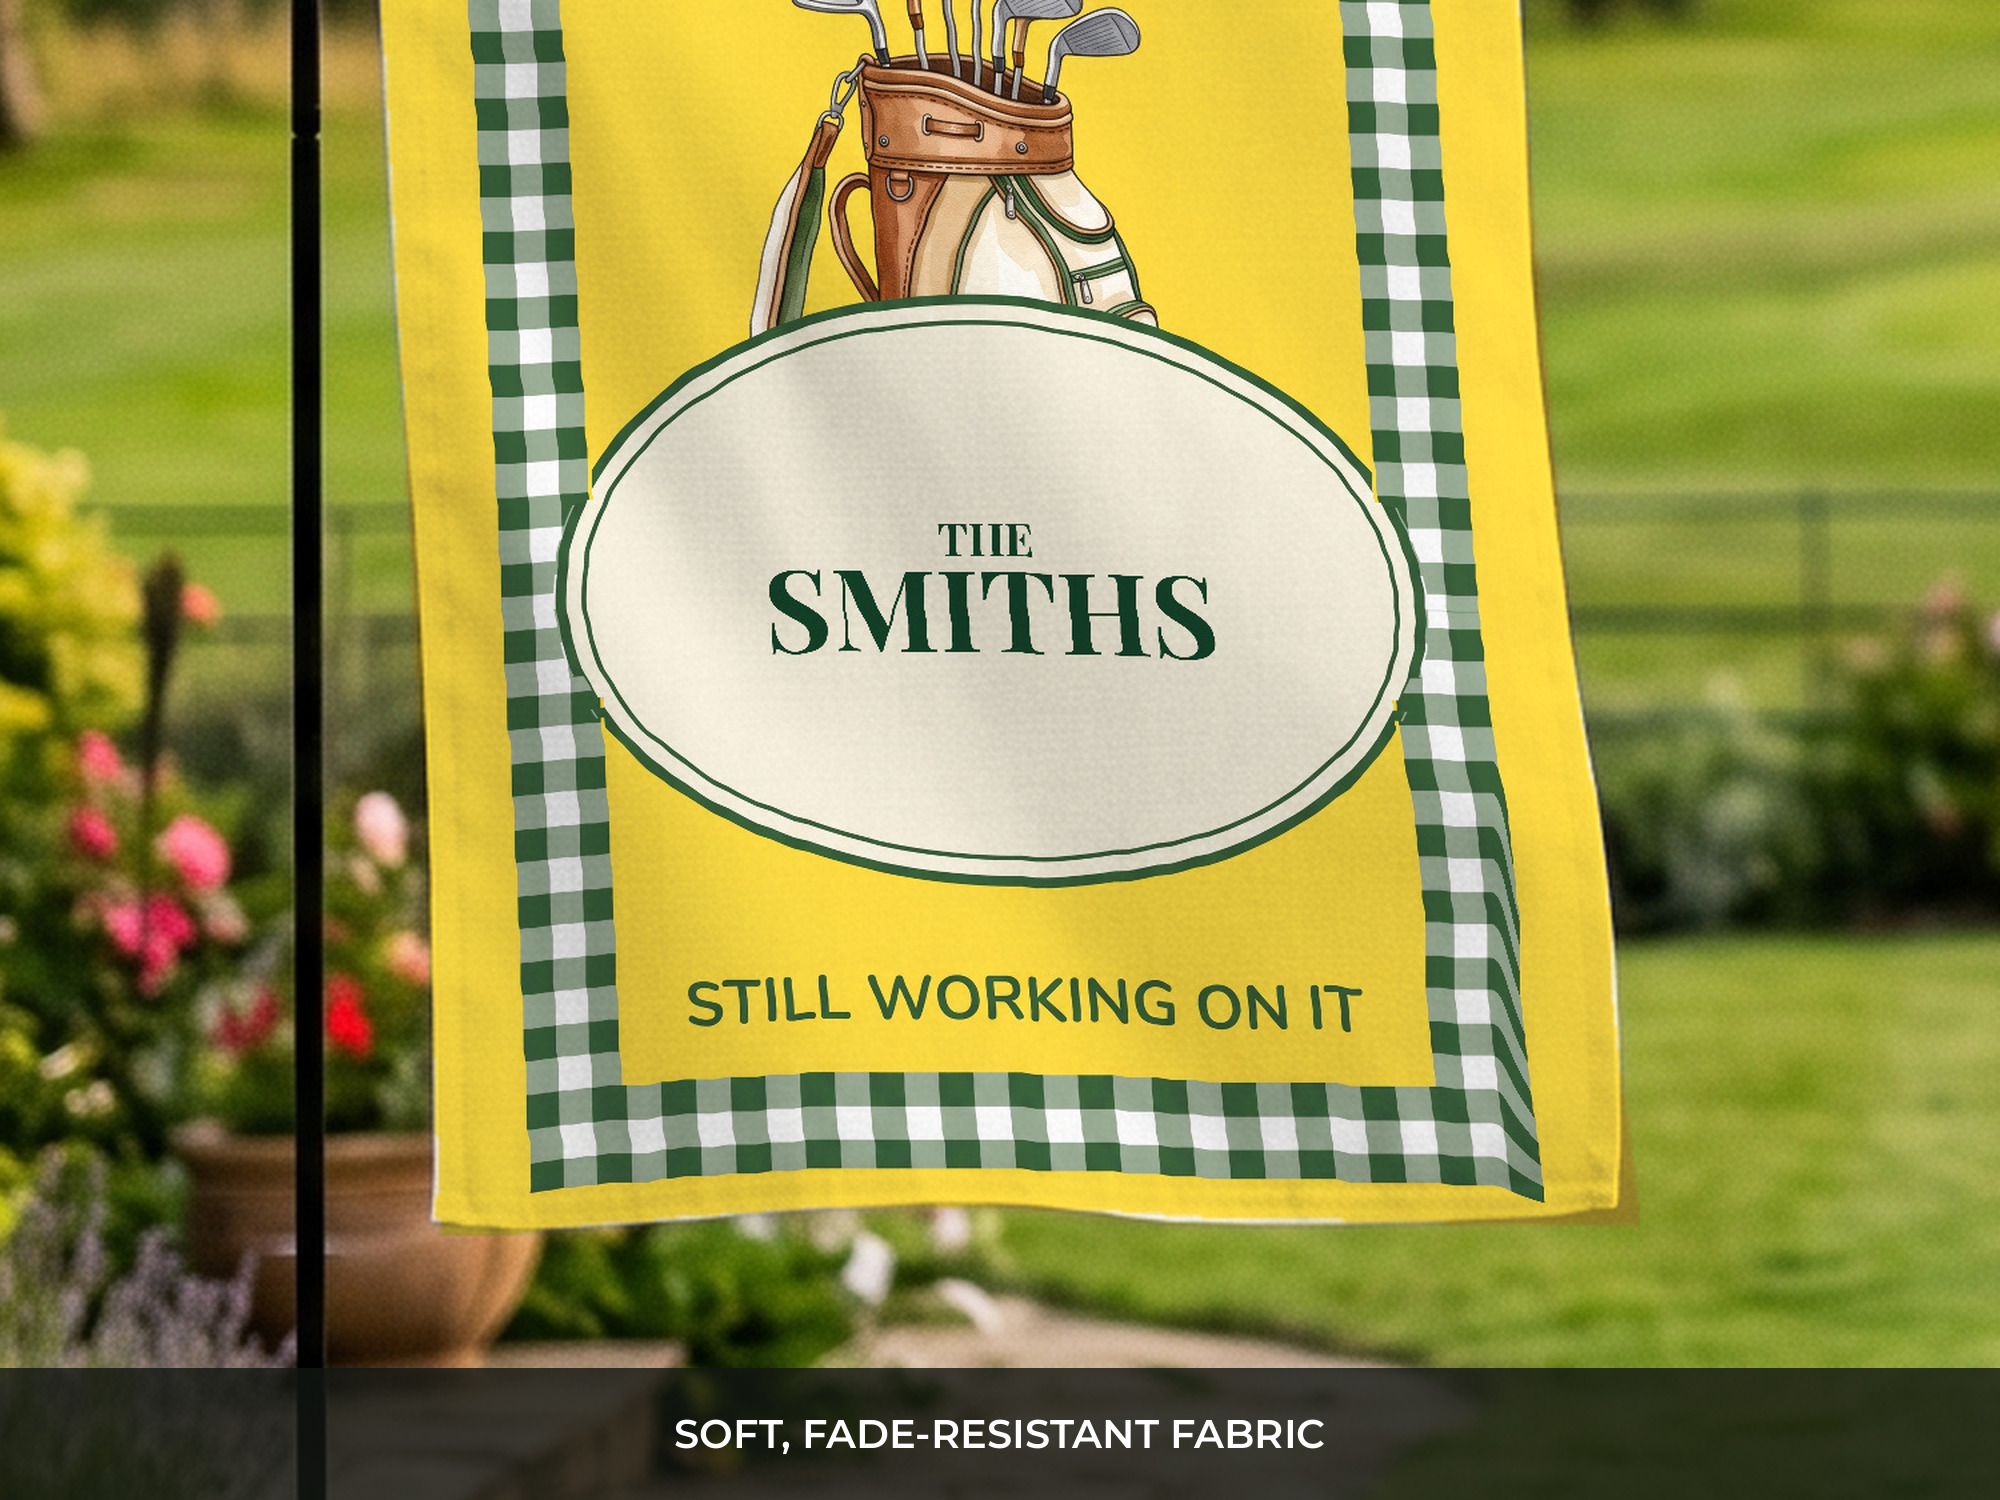
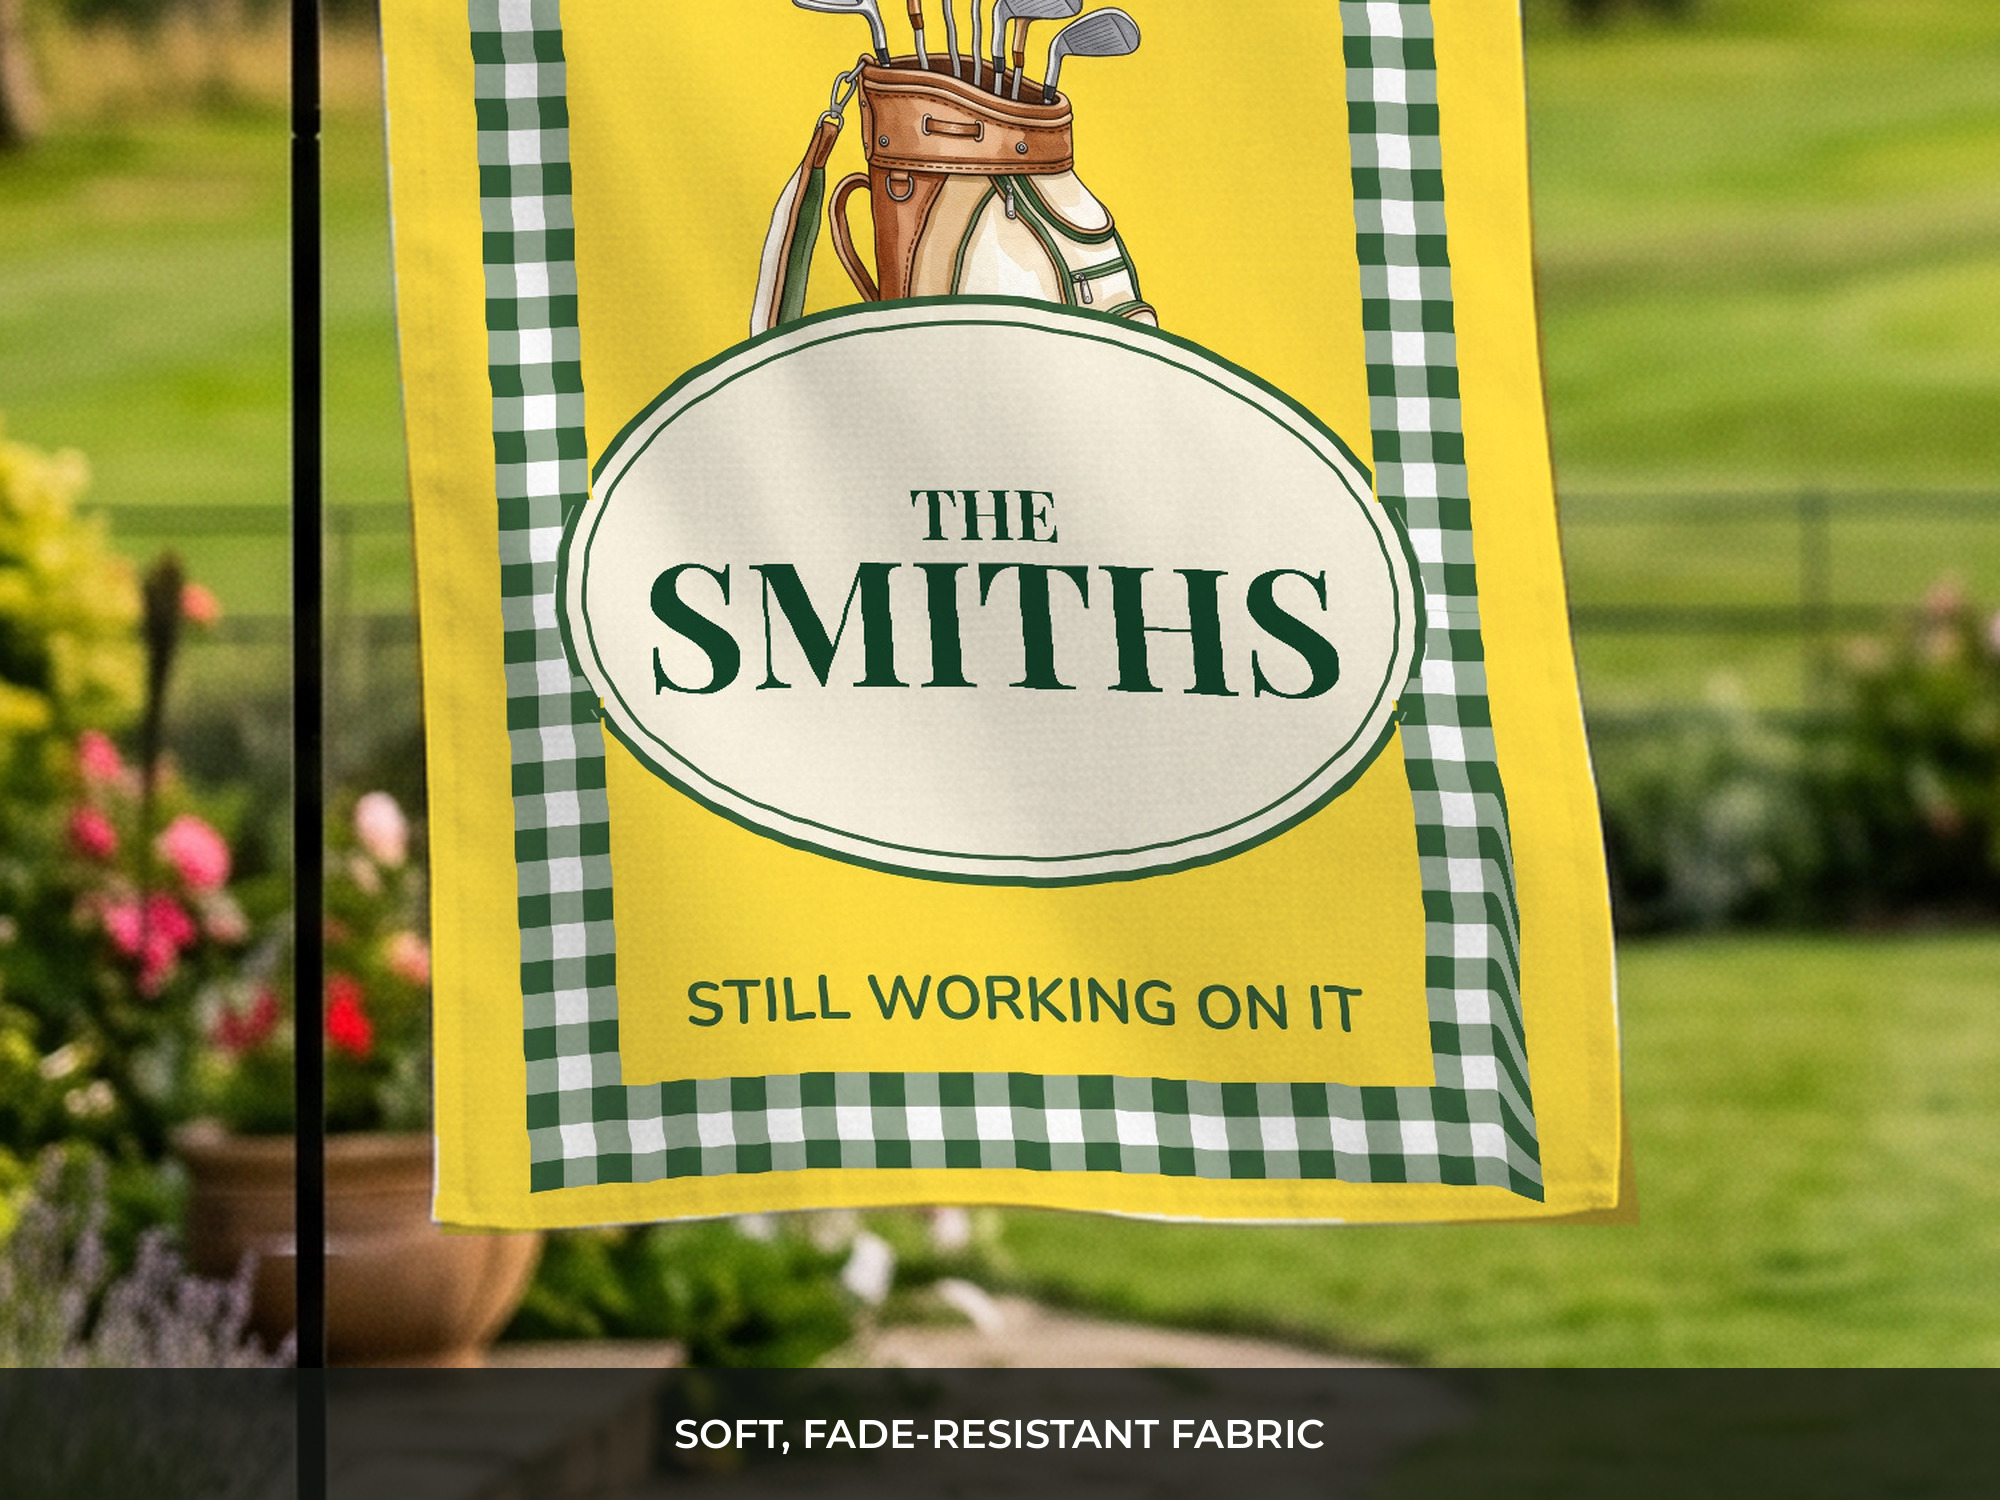
garden_flag: R01の名入れを1.54〜1.66倍に拡大（本人指摘）
楕円プレートに対して「最大内接長方形＋余白」方式を使っていたため、
楕円の幅2513pxに対して文字枠が1414px（56%）しか取れていなかった。
楕円の四隅が死んでいた。

文字の各行の四隅が楕円の内側にあるかを直接判定する方式に変更した。
  楕円(中心1950,3603 / a=1256, b=835)の内側60pxに全行の四隅が入る
  最大サイズを二分探索する

  SMITHS        359px → 554px (1.54倍)  リングまで97px(0.32in)
  MILLERS       318px → 501px (1.58倍)  86px(0.29in)
  ANDERSONS     229px → 373px (1.63倍)  67px(0.22in)
  WASHINGTONS   187px → 308px (1.65倍)  91px(0.30in)
  HIGGINBOTHAMS 160px → 265px (1.66倍)  75px(0.25in)

余裕は文字画素の楕円正規化半径の最大値から実測した。全ケース0.22in以上。

他4案も使用率を測ったが、幅の80%を使っており余白9%ずつは妥当なので変更しない。
高さが33-46%しか使われないのは名字の幅が先に上限に当たるためで構造的なもの。

R01の名入れ3種・モックアップ3枚・出品画像7枚・ハウス版入稿・
2サイズのサイズ図を作り直した。

Claude-Session: https://claude.ai/code/session_017qrD34xpyvn533LRq15xnw

Changed region(s): [[0.31, 0.3067, 0.682, 0.46]]

diff --git a/garden_flag/tools/make_name_flag_r.py b/garden_flag/tools/make_name_flag_r.py
@@ -1,6 +1,20 @@
-"""大きなプレートに「THE / 名字」を2行で合成"""
+# -*- coding: utf-8 -*-
+"""大きなプレートに「THE / 名字」を2行で合成する。
+
+プレートの形に応じて2通りの合わせ方を使う。
+
+  長方形のプレート（R02/R05/R09/R11）
+    帯の内側に余白を取り、その長方形に収まる最大サイズを二分探索する。
+
+  楕円のプレート（R01）
+    楕円に内接する長方形を使うと、**楕円の幅2513pxに対して1414px(56%)**しか
+    使えず、文字が不必要に小さくなる（2026-09-23 本人の指摘で判明）。
+    → 文字の各行の四隅が楕円の内側にあるかを直接判定する方式に変更。
+      1.54〜1.66倍のサイズが取れ、リングまでの余裕も0.22〜0.32インチ確保できる。
+"""
 from PIL import Image, ImageDraw, ImageFont
 import json, os, sys
+
 B=json.load(open("bands_r.json")); FD="fonts"
 # 案: フォント / 文字色 / 左右余白率 / 上下余白率 / 「THE」の相対サイズ
 CFG={
@@ -10,38 +24,64 @@ CFG={
  "R09": ("PlayfairDisplay.ttf",(28,74,45),   0.09,0.14, 0.40),
  "R11": ("Cinzel.ttf",         (203,166,80), 0.09,0.16, 0.42),
 }
+# 楕円プレートの案は、楕円そのものに合わせる。(中心x, 中心y, 半径a, 半径b, 内側の余裕)
+ELLIPSE={"R01": (1950.0, 3603.0, 1256.0, 835.0, 60.0)}
+GAP_R=0.12                      # 行間＝名字のサイズの12%
+
 def bbox(d,t,f):
     l,tp,r,b=d.textbbox((0,0),t,font=f); return r-l,b-tp,l,tp
 
-def render(tag, surname, out_dir="named_r"):
-    src=f"upload_r/{tag}_upload_3900x5700.png"
-    im=Image.open(src).convert("RGB"); d=ImageDraw.Draw(im)
-    x0,y0,x1,y1=B[tag]; fn,col,mx,my,rel=CFG[tag]
-    maxw=int((x1-x0)*(1-mx*2)); maxh=int((y1-y0)*(1-my*2))
-    fp=os.path.join(FD,fn)
-    gap_r=0.12                      # 行間＝大文字サイズの12%
+def _fit_rect(d, fp, surname, maxw, maxh, rel):
     lo,hi,best=10,900,None
     while lo<=hi:
         mid=(lo+hi)//2
-        fb=ImageFont.truetype(fp,mid); fs=ImageFont.truetype(fp,max(8,int(mid*rel)))
-        w2,h2,_,_=bbox(d,surname,fb); w1,h1,_,_=bbox(d,"THE",fs)
-        total_h=h1+int(mid*gap_r)+h2
-        if max(w1,w2)<=maxw and total_h<=maxh:
-            best=(mid,fb,fs); lo=mid+1
+        fb=ImageFont.truetype(fp,mid); ft=ImageFont.truetype(fp,max(8,int(mid*rel)))
+        w2,h2,_,_=bbox(d,surname,fb); w1,h1,_,_=bbox(d,"THE",ft)
+        if max(w1,w2)<=maxw and h1+int(mid*GAP_R)+h2<=maxh: best=(mid,fb,ft); lo=mid+1
         else: hi=mid-1
-    size,fb,fs=best
-    w2,h2,ox2,oy2=bbox(d,surname,fb); w1,h1,ox1,oy1=bbox(d,"THE",fs)
-    gap=int(size*gap_r); total=h1+gap+h2
-    cx=(x0+x1)//2; top=(y0+y1)//2-total//2
-    d.text((cx-w1//2-ox1, top-oy1), "THE", font=fs, fill=col)
-    d.text((cx-w2//2-ox2, top+h1+gap-oy2), surname, font=fb, fill=col)
+    return best
+
+def _fit_ellipse(d, fp, surname, ov, rel):
+    """各行の四隅が楕円の内側に入る最大サイズ"""
+    cx,cy,a,b,pad=ov; A,Bb=a-pad,b-pad
+    ins=lambda x,y: ((x-cx)/A)**2+((y-cy)/Bb)**2 <= 1.0
+    lo,hi,best=10,1400,None
+    while lo<=hi:
+        S=(lo+hi)//2
+        fb=ImageFont.truetype(fp,S); ft=ImageFont.truetype(fp,max(8,int(S*rel)))
+        w2,h2,_,_=bbox(d,surname,fb); w1,h1,_,_=bbox(d,"THE",ft)
+        gap=int(S*GAP_R); total=h1+gap+h2; top=cy-total/2
+        boxes=((cx-w1/2,top,cx+w1/2,top+h1),
+               (cx-w2/2,top+h1+gap,cx+w2/2,top+h1+gap+h2))
+        if all(ins(X,Y) for x0,y0,x1,y1 in boxes for X,Y in ((x0,y0),(x1,y0),(x0,y1),(x1,y1))):
+            best=(S,fb,ft); lo=S+1
+        else: hi=S-1
+    return best
+
+def render(tag, surname, out_dir="named_r"):
+    im=Image.open(f"upload_r/{tag}_upload_3900x5700.png").convert("RGB")
+    d=ImageDraw.Draw(im)
+    fn,col,mx,my,rel=CFG[tag]; fp=os.path.join(FD,fn)
+    if tag in ELLIPSE:
+        cx,cy,_,_,_=ELLIPSE[tag]
+        size,fb,ft=_fit_ellipse(d,fp,surname,ELLIPSE[tag],rel)
+    else:
+        x0,y0,x1,y1=B[tag]
+        cx,cy=(x0+x1)/2,(y0+y1)/2
+        size,fb,ft=_fit_rect(d,fp,surname,int((x1-x0)*(1-mx*2)),int((y1-y0)*(1-my*2)),rel)
+    w2,h2,ox2,oy2=bbox(d,surname,fb); w1,h1,ox1,oy1=bbox(d,"THE",ft)
+    gap=int(size*GAP_R); total=h1+gap+h2; top=cy-total/2
+    d.text((cx-w1/2-ox1, top-oy1), "THE", font=ft, fill=col)
+    d.text((cx-w2/2-ox2, top+h1+gap-oy2), surname, font=fb, fill=col)
     os.makedirs(out_dir, exist_ok=True)
-    p=f"{out_dir}/{tag}_{surname}_3900x5700.png"; im.save(p, optimize=True)
+    im.save(f"{out_dir}/{tag}_{surname}_3900x5700.png", optimize=True)
     return size, int(size*rel)
 
-SUR = sys.argv[1] if len(sys.argv)>1 else "SMITHS"
-print(f"合成する名字: 「THE {SUR}」\n")
-print(f"{'案':<5}{'フォント':<22}{'名字':>9}{'THE':>8}")
-print("-"*46)
-for t in ["R01","R02","R05","R09","R11"]:
-    a,b=render(t,SUR); print(f"{t:<5}{CFG[t][0]:<22}{a:>7}px{b:>6}px")
+if __name__=="__main__":
+    SUR = sys.argv[1] if len(sys.argv)>1 else "SMITHS"
+    print(f"合成する名字: 「THE {SUR}」\n")
+    print(f"{'案':<5}{'合わせ方':<10}{'フォント':<22}{'名字':>9}{'THE':>8}")
+    print("-"*56)
+    for t in ["R01","R02","R05","R09","R11"]:
+        a,b=render(t,SUR)
+        print(f"{t:<5}{('楕円' if t in ELLIPSE else '長方形'):<10}{CFG[t][0]:<22}{a:>7}px{b:>6}px")

diff --git a/garden_flag/tools/fit_ellipse.py b/garden_flag/tools/fit_ellipse.py
@@ -1,0 +1,62 @@
+# -*- coding: utf-8 -*-
+"""楕円のプレートに、長方形ではなく「楕円そのもの」に合わせて文字を入れる。
+
+いまの方式:
+  楕円 → 最大内接長方形 → さらに余白を引く → その中に文字
+  R01 では 楕円の幅2513px に対して文字枠が1414px（56%）しか取れていなかった。
+
+新しい方式:
+  文字の各行の四隅が楕円の内側にあるかを直接判定して、入る最大サイズを二分探索する。
+  幅の広い行（名字）は楕円が最も広い高さに置かれるので、大きく取れる。
+"""
+from PIL import Image, ImageDraw, ImageFont
+import numpy as np
+
+def bbox(d,t,f):
+    l,tp,r,b=d.textbbox((0,0),t,font=f); return r-l,b-tp,l,tp
+
+def inside(x,y,cx,cy,a,b):
+    return ((x-cx)/a)**2 + ((y-cy)/b)**2 <= 1.0
+
+def fit_two_lines(oval, top_text, main_text, font_path, rel=0.40, gap_r=0.12,
+                  pad=60, y_shift=0.0, lo=10, hi=1400):
+    """oval=(cx,cy,a,b)。文字の四隅が楕円(半径 a-pad, b-pad)の内側に入る最大サイズを返す"""
+    cx,cy,a,b=oval; A=a-pad; B=b-pad
+    d=ImageDraw.Draw(Image.new("RGB",(10,10)))
+    best=None
+    while lo<=hi:
+        S=(lo+hi)//2
+        fb=ImageFont.truetype(font_path,S); ft=ImageFont.truetype(font_path,max(8,int(S*rel)))
+        w2,h2,ox2,oy2=bbox(d,main_text,fb); w1,h1,ox1,oy1=bbox(d,top_text,ft)
+        gap=int(S*gap_r); total=h1+gap+h2
+        top=cy+y_shift*b-total/2
+        boxes=[(cx-w1/2, top,        cx+w1/2, top+h1),
+               (cx-w2/2, top+h1+gap, cx+w2/2, top+h1+gap+h2)]
+        ok=all(inside(X,Y,cx,cy,A,B) for x0,y0,x1,y1 in boxes
+               for X,Y in ((x0,y0),(x1,y0),(x0,y1),(x1,y1)))
+        if ok: best=(S,fb,ft,boxes); lo=S+1
+        else:  hi=S-1
+    return best
+
+if __name__=="__main__":
+    OV=(1950.0,3603.0,1256.0,835.0)
+    fp="fonts/PlayfairDisplay.ttf"
+    print("R01 の名入れ：いまの方式と、楕円に直接合わせた場合の比較\n")
+    print(f"{'名字':<14}{'いまの方式':>11}{'楕円に合わせる':>15}{'倍率':>8}")
+    print("-"*50)
+    import json
+    B_=json.load(open("bands_r.json"))["R01"]
+    d=ImageDraw.Draw(Image.new("RGB",(10,10)))
+    for sur in ("SMITHS","MILLERS","ANDERSONS","WASHINGTONS","HIGGINBOTHAMS"):
+        # いまの方式
+        x0,y0,x1,y1=B_; mw=int((x1-x0)*0.8); mh=int((y1-y0)*0.68)
+        lo,hi,old=10,900,0
+        while lo<=hi:
+            m=(lo+hi)//2
+            fb=ImageFont.truetype(fp,m); ft=ImageFont.truetype(fp,max(8,int(m*0.40)))
+            w2,h2,_,_=bbox(d,sur,fb); w1,h1,_,_=bbox(d,"THE",ft)
+            if max(w1,w2)<=mw and h1+int(m*0.12)+h2<=mh: old=m; lo=m+1
+            else: hi=m-1
+        r=fit_two_lines(OV,"THE",sur,fp)
+        new=r[0] if r else 0
+        print(f"{sur:<14}{old:>9}px{new:>13}px{new/old:>7.2f}倍")

diff --git a/garden_flag/docs/14_名入れ合成の記録.md b/garden_flag/docs/14_名入れ合成の記録.md
@@ -60,3 +60,74 @@ N01のリボン面は**クリーム(246,235,218)、その下の下地は白(254,
 2. 出品画像7枚（`docs/05` の構成テンプレート）
 3. タイトル・タグ13個・説明文（**全語を検索語で埋める**）
 4. Etsy公開 → 少額広告
+
+---
+
+# 追記（2026-09-23）：R01 の文字が小さかった — 楕円に直接合わせる方式へ変更
+
+本人の指摘：**「R01の名入れのテキストのサイズが小さいのでは？もう少し大きくできるように見える」**
+
+実測したところ、そのとおりだった。**6件目の的中。**
+
+## 何が起きていたか
+
+R01 のプレートは**楕円**。それに対して
+「楕円に内接する最大長方形を取り、さらに余白を引く」方式を使っていた。
+
+```
+楕円の内側          2513 × 1670 px
+  ↓ 最大内接長方形   1768 × 1184 px   （楕円の幅の70%）
+  ↓ 余白 左右10%/上下16%
+実際の文字枠        1414 ×  805 px   ← 楕円の幅の 56% しかない
+```
+
+**楕円の四隅が死んでいた。** 長方形のプレート（R02/R05/R09/R11）なら
+内接長方形＝プレートそのものなので無駄は出ないが、楕円では大きく損をする。
+
+## 直し方
+
+文字の**各行の四隅が楕円の内側にあるか**を直接判定し、入る最大サイズを二分探索する。
+幅の広い行（名字）は楕円が最も広い高さに置かれるので、大きく取れる。
+
+```
+楕円 (中心1950,3603 / 半径a=1256, b=835) の内側に 60px の余裕を取り、
+  ((x-cx)/(a-60))² + ((y-cy)/(b-60))² ≤ 1
+を全行の四隅について満たす最大サイズを探す
+```
+
+## 結果
+
+| 名字 | 旧（長方形） | **新（楕円）** | 倍率 | リングまでの余裕 |
+|---|---:|---:|---:|---:|
+| SMITHS | 359px | **554px** | 1.54倍 | 97px（0.32in） |
+| MILLERS | 318px | **501px** | 1.58倍 | 86px（0.29in） |
+| ANDERSONS | 229px | **373px** | 1.63倍 | 67px（0.22in） |
+| WASHINGTONS | 187px | **308px** | 1.65倍 | 91px（0.30in） |
+| HIGGINBOTHAMS | 160px | **265px** | 1.66倍 | 75px（0.25in） |
+
+余裕は画素単位で実測した（文字画素の楕円正規化半径の最大値から算出）。
+**全ケースで 0.22インチ以上**あり、リングに触れない。
+
+`docs/21_出品文言.md` の「文字数と印刷サイズ」の表は、R01 について
+**この1.54〜1.66倍で読み替えること。**
+
+## 他の4案は問題なかった
+
+念のため5案すべてで「プレートに対する文字の使用率」を測った。
+
+| 案 | プレート | 文字 | 幅の使用率 | 高さの使用率 |
+|---|---|---|---:|---:|
+| R01（旧） | 1768×1184 | 1380×410 | 78% | 35% |
+| R02 | 2592×1960 | 2125×890 | 82% | 45% |
+| R05 | 2440×1440 | 1959×564 | 80% | 39% |
+| R09 | 1880×1360 | 1503×445 | 80% | 33% |
+| R11 | 1880×968 | 1502×443 | 80% | 46% |
+
+**4案とも幅の80%を使っており、残りは左右の余白9%ずつ。** これは詰めすぎない
+見た目の余白として妥当なので、変更しない。
+高さが33〜46%しか使われていないのは、**名字の幅が先に上限に当たるため**で、
+構造的なもの（フォントを変えない限り縮まらない）。
+
+## 作り直したもの
+
+R01 の 名入れ3種・モックアップ3枚・出品画像7枚・ハウス版入稿・2サイズのサイズ図。

diff --git a/CLAUDE.md b/CLAUDE.md
@@ -14,8 +14,8 @@
 - **パスワード入力・支払い・OAuth許可・金融口座の操作は必ず本人。** こちらは代行しない。
   公開・投稿・設定変更も、実行前に必ず確認を取って止まる
 - **デザインの違和感を鋭く指摘してくる。** 「なんとなく変」ではなく**実測で白黒つける**と喜ばれる。
-  実績として、本人が違和感を訴えた**5件は5件とも本当に破綻していた**（最新: R01のギンガム柄。
-  `garden_flag/docs/23_R01の格子柄の補修.md`）。**軽く扱わないこと**
+  実績として、本人が違和感を訴えた**6件は6件とも本当に問題があった**（最新: R01の名入れが
+  小さすぎた件。`garden_flag/docs/14_名入れ合成の記録.md` の追記）。**軽く扱わないこと**
 - **生成AIの出力は、繰り返し柄が途中で壊れていることがある。** 目視で気づく前に
   **周期を数値で測る**こと。R01は縞1本だけが2.1倍、R09はタータンのセットが縦横で不一致だった
 - 二度手間をかけたときは**原因を明示して簡潔に謝る**。長い自己批判は求められていない
